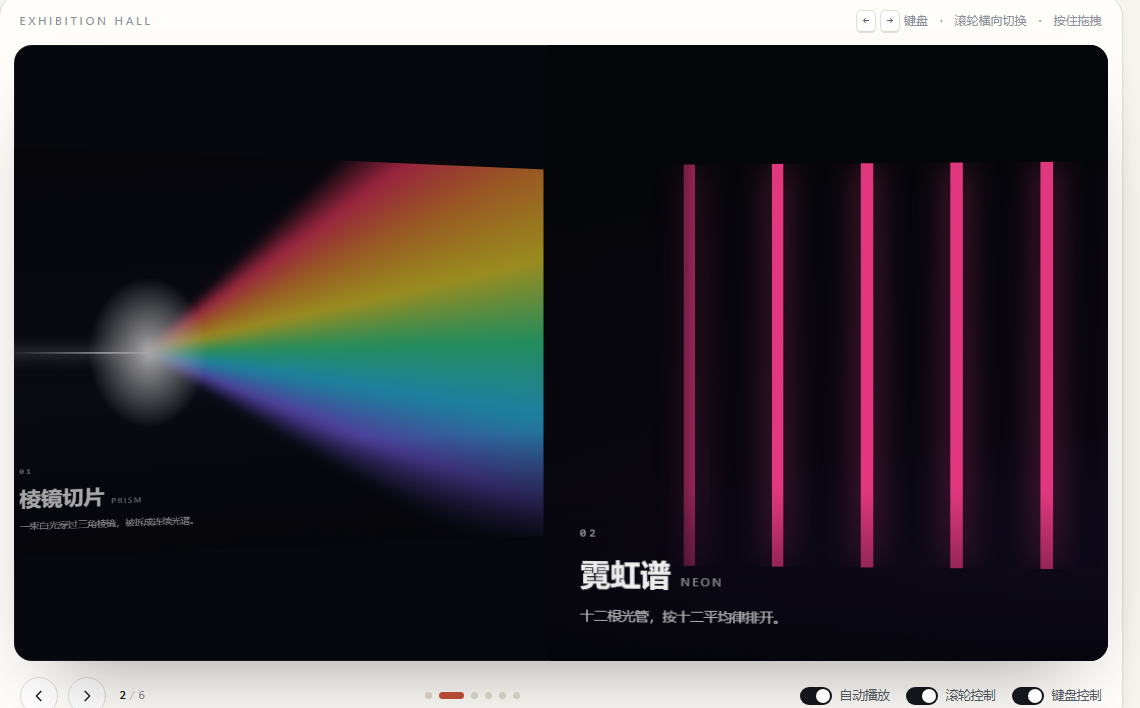
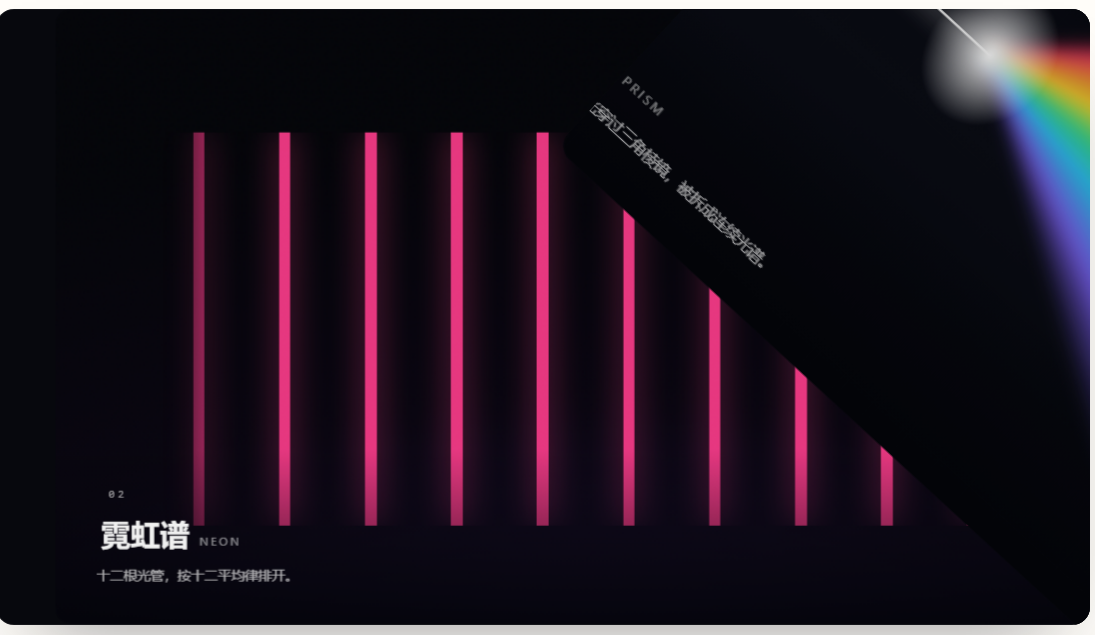
feat: 任务二 creativeEffect 换成调参台参数（prev 右让+倾斜45，next 0.86 推进场）

diff --git a/prompts.html b/prompts.html
@@ -262,25 +262,21 @@ opacity = 1 - (1 - g.opacity) * progress
 creativeEffect: {
   limitProgress: 3,                 // 往后叠 3 层
   prev: {                           // 「已经过去的那张」
-    translate: ['-20%', 0, -380],   // 左移 20%（占自身宽度）+ 后退 380px
-    rotate:    [0, 30, 0],          // 绕 Y 轴 30°，卡片侧过去
-    scale:     0.6,                 // 缩到 60%
-    opacity:   0.55,                // 压暗让位
     shadow:    true,
-    origin:    'left center'        // 以左边缘为轴，像一扇门开在墙上
+    translate: ['60%', 0, 190],     // 往右让 60% 宽度，同时推到眼前 190px（Z 正 = 更近）
+    rotate:    [0, 0, 45]           // 绕 Z 轴平面内倾斜 45°（不是绕 Y 轴侧身）
   },
   next: {                           // 「还没进场的那张」
-    translate: ['112%', 0, -120],   // 停在右侧画外
-    rotate:    [0, -6, 0],          // 轻微反向角度，进场有推镜感
-    scale:     1.18,                // 起始放大 18%，到位回到 1
-    shadow:    true
+    translate: ['100%', 0, 120],    // 从右侧画外推进来
+    scale:     0.86,                // 起始 86%，到位回到 1
+    opacity:   0                    // 起手全透明，边走边显影
   }
 }</code></pre>
       </div>
 
       <figure class="shot" data-slot>
         <img src="img/shot-03.png" alt="第 7 个按钮 creative 电影墙的切换瞬间" loading="lazy" />
-        <figcaption>图 3 · 第 7 个按钮：切换进行到 ~180ms 时，上一张缩到 0.6 侧着退场，下一张 1.18 倍推近</figcaption>
+        <figcaption>图 3 · 第 7 个按钮：切换中，上一张向右让位并平面内倾斜 45°，下一张从右侧 0.86 倍推进来</figcaption>
       </figure>
     </article>
 
@@ -303,8 +299,10 @@ creativeEffect: {
       </details>
       <details>
         <summary>Q2 改一个数值让卡片转 20 度？</summary>
-        <p>改 <code>prev.rotate</code> 的第二个数（Y 轴）：<code>[0, 30, 0]</code> → <code>[0, 20, 0]</code>。三个数依次是 X / Y / Z，单位是度。
-        改成 <code>[0, 0, 20]</code> 卡片就是平面内歪头，不是立起来——<b>这个对比正好说明只有 Y 轴旋转才有纵深</b>。</p>
+        <p>改 <code>prev.rotate</code> 的第三个数（Z 轴，平面内倾斜）：<code>[0, 0, 45]</code> → <code>[0, 0, 20]</code>。
+        三个数依次是 X / Y / Z，单位是度。</p>
+        <p>顺带把这个对比说清楚：<code>[0, 0, 45]</code> 是卡片在屏幕平面里歪头（照片甩在桌上的感觉，现在用的就是这个）；
+        <code>[0, 45, 0]</code> 才是绕 Y 轴侧身，有 3D 纵深。<b>Z 轴和 Y 轴完全是两回事</b>，这是最容易混的一个点。</p>
       </details>
     </div>
   </section>

diff --git a/js/main.js b/js/main.js
@@ -59,19 +59,16 @@
       effect: 'creative',
       creativeEffect: {
         limitProgress: 3,           // 往后叠 3 层，形成"选片墙"的纵深
+        // 参数取自 Creative 调参台（电影墙预设），三项滑杆对应 X 位移 / Z 纵深 / 倾斜角
         prev: {
-          translate: ['-20%', 0, -380],  // 左移 + 后退 380px（Z 轴）
-          rotate: [0, 30, 0],            // 绕 Y 轴转 30°，卡片侧过去
-          scale: 0.6,                    // 缩小到 60%
-          opacity: 0.55,                 // 压暗，让位给当前张
           shadow: true,
-          origin: 'left center'          // 以左边缘为轴，像立在墙上
+          translate: ['60%', 0, 190],    // 往右让 60%，同时推到观者眼前 190px
+          rotate: [0, 0, 45]             // 绕 Z 轴平面内倾斜 45°（不是绕 Y 轴侧身）
         },
         next: {
-          translate: ['112%', 0, -120],  // 停在右侧画外，带一点纵深
-          rotate: [0, -6, 0],            // 轻微反向角度，进场有"推镜"感
-          scale: 1.18,                   // 起始放大 18%，推近后回到 1
-          shadow: true
+          translate: ['100%', 0, 120],   // 从右侧画外推近
+          scale: 0.86,                   // 起始 86%，到位回到 1
+          opacity: 0                     // 起手全透明，边走边显影
         }
       }
     }

diff --git a/index.html b/index.html
@@ -209,8 +209,8 @@
       <div class="checklist__col">
         <h4>任务二 · creative 电影墙</h4>
         <ul>
-          <li><b>prev：缩小 + 左移 + 带角度</b><code>translate: ['-20%', 0, -380]</code> · <code>scale: 0.6</code> · <code>rotate: [0, 30, 0]</code></li>
-          <li><b>next：放大 + 右移进场</b><code>translate: ['112%', 0, -120]</code> · <code>scale: 1.18</code></li>
+          <li><b>prev：右让 60% + 推近 190 + 平面内倾斜 45°</b><code>translate: ['60%', 0, 190]</code> · <code>rotate: [0, 0, 45]</code> · <code>shadow: true</code></li>
+          <li><b>next：从右侧画外推进来</b><code>translate: ['100%', 0, 120]</code> · <code>scale: 0.86</code> · <code>opacity: 0</code></li>
           <li><b>叠三层，形成纵深</b><code>limitProgress: 3</code></li>
           <li><b>prev / next 按钮仍能驱动 transform</b>由 <code>navigation</code> 接管，切换即重算进度</li>
         </ul>

diff --git a/提交材料/任务二-creative仿写.md b/提交材料/任务二-creative仿写.md
@@ -41,32 +41,31 @@ effect: 'creative',
 creativeEffect: {
   limitProgress: 3,                 // 往后叠 3 层；第 4 张及以后都压在同一位置
   prev: {                           // 「已经过去的那张」的姿态
-    translate: ['-20%', 0, -380],   // 左移 20%（占自身宽度）+ 后退 380px
-    rotate:    [0, 30, 0],          // 绕 Y 轴转 30°，卡片侧过去
-    scale:     0.6,                 // 缩小到 60%
-    opacity:   0.55,                // 压暗，让位给当前张
-    shadow:    true,                // 自带投影，强化"立起来"的体积感
-    origin:    'left center'        // 以左边缘为轴旋转，像一扇门开在墙上
+    shadow:    true,                // 投影，倾斜时才立得起来
+    translate: ['60%', 0, 190],     // 往右让 60% 宽度，同时推到眼前 190px（Z 正 = 更近）
+    rotate:    [0, 0, 45]           // 绕 Z 轴平面内倾斜 45°（不是绕 Y 轴侧身）
   },
   next: {                           // 「还没进场的那张」的姿态
-    translate: ['112%', 0, -120],   // 停在右侧画外，同时后退 120px
-    rotate:    [0, -6, 0],          // 轻微反向角度，进场有"推镜"感
-    scale:     1.18,                // 起始放大 18%，走到中间回到 1
-    shadow:    true
+    translate: ['100%', 0, 120],    // 从右侧画外推进来
+    scale:     0.86,                // 起始 86%，走到中间回到 1
+    opacity:   0                    // 起手全透明，边走边显影
   }
 }
 ```
 
 **两个参数的直观对照**
 
-| 参数 | 小 → 大 会怎样 |
-|---|---|
-| `prev.scale` 0.6 → 0.9 | 上一张变小得少，几乎不"退场"，纵深感消失 |
-| `prev.rotate` 30 → 60 | 卡片侧得更狠，像翻书而不是立墙 |
-| `prev.translate[2]` -380 → -1200 | 退得更远，明显"缩进深处" |
-| `next.translate[0]` 112% → 100% | 进场起点贴着边框，少一点"从画外来"的戏剧感 |
-| `next.scale` 1.18 → 1.5 | 推镜更猛，但太快会糊 |
-| `limitProgress` 3 → 1 | 只叠 1 层，后面的卡片直接消失 |
+> 这组数是从「Creative 调参台」的滑杆上拖出来的，三个滑杆分别对应 X 位移 / Z 纵深 / 倾斜角。
+
+| 滑杆 | 小 → 大 | 观感 |
+|---|---|---|
+| prev X 位移 60% | 60% → 20% | 上一张躲到主卡后面，露出的边更少，几乎看不见 |
+| prev Z 纵深 190 | 190 → 600 | 更快"冲到眼前"，倾斜后的边角更夸张，甚至遮住主卡 |
+| prev 倾斜角 45° | 45° → 10° | 从"歪着甩在桌上"变回"几乎正着"，照片墙的味道没了 |
+| next X 位移 100% | 100% → 60% | 进场起点更靠内，戏剧性变弱 |
+| next 缩放 0.86 | 0.86 → 1.2 | 从"小个推进来"变成"大个压过来" |
+| next 透明度 0 | 0 → 1 | 不再隐现，全程可见，翻页会显得更吵 |
+| `limitProgress` 3 → 1 | 3 → 1 | 只叠 1 层，后面的卡片直接消失 |
 
 ---
 
@@ -106,13 +105,16 @@ scale = 1 - (1 - g.scale) * progress
 
 **Q2：改一个数值让卡片转 20 度试试？**
 
-改 `prev.rotate` 的**第二个数**（Y 轴）：
+改 `prev.rotate` 的**第三个数**（Z 轴，平面内倾斜）：
 
 ```js
-rotate: [0, 30, 0]   →   rotate: [0, 20, 0]
+rotate: [0, 0, 45]   →   rotate: [0, 0, 20]
 ```
 
-三个数依次是 X / Y / Z 轴，单位是度。改完卡片侧得没那么狠，肉眼上"立墙"变成了"微微侧身"。如果改成 `[0, 0, 20]`（Z 轴），卡片就是在平面内歪头，不是立起来了——**这两者的区别正好说明 Y 轴旋转才有纵深**。
+三个数依次是 X / Y / Z 轴，单位是度。改完倾斜角从 45° 收到 20°，卡片没那么"歪"了。
+
+**顺带把最容易混的一点说清楚**：`[0, 0, 45]` 是卡片在屏幕平面里歪头（照片甩在桌上的感觉，现在用的就是这个）；
+`[0, 45, 0]` 才是绕 Y 轴侧身、有 3D 纵深。Z 轴和 Y 轴完全是两回事。
 
 ---
 
